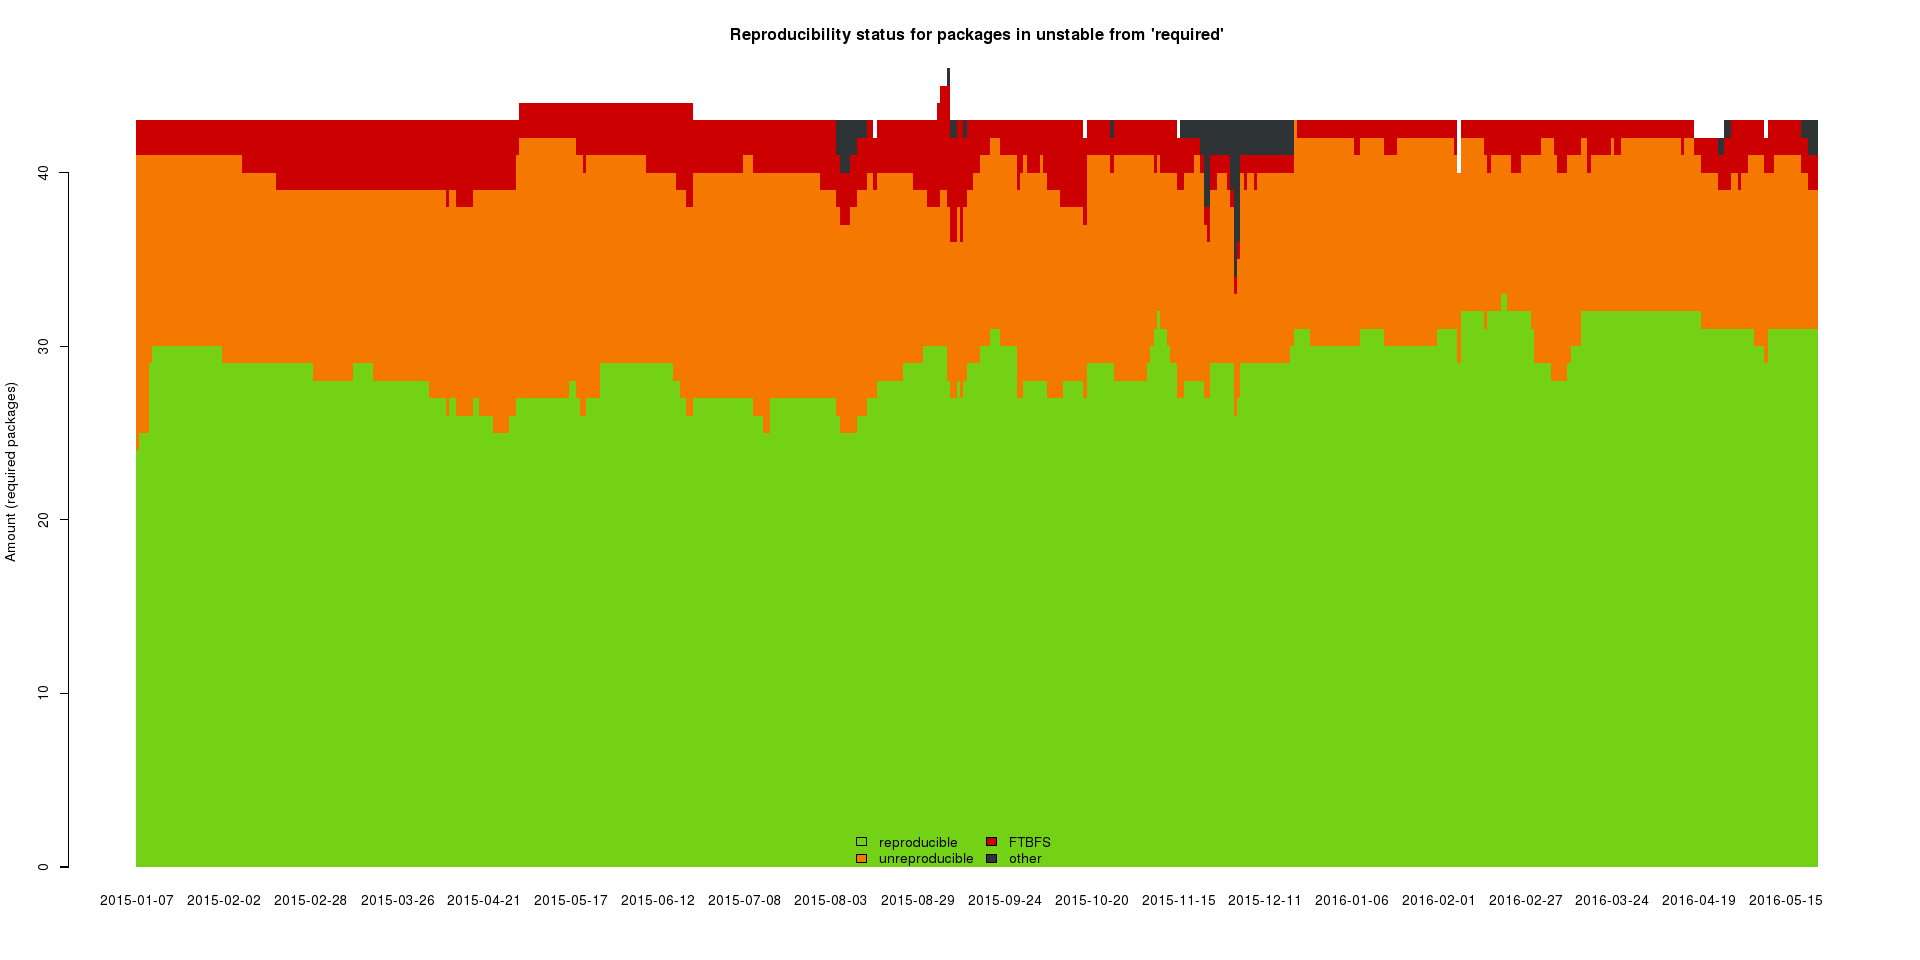
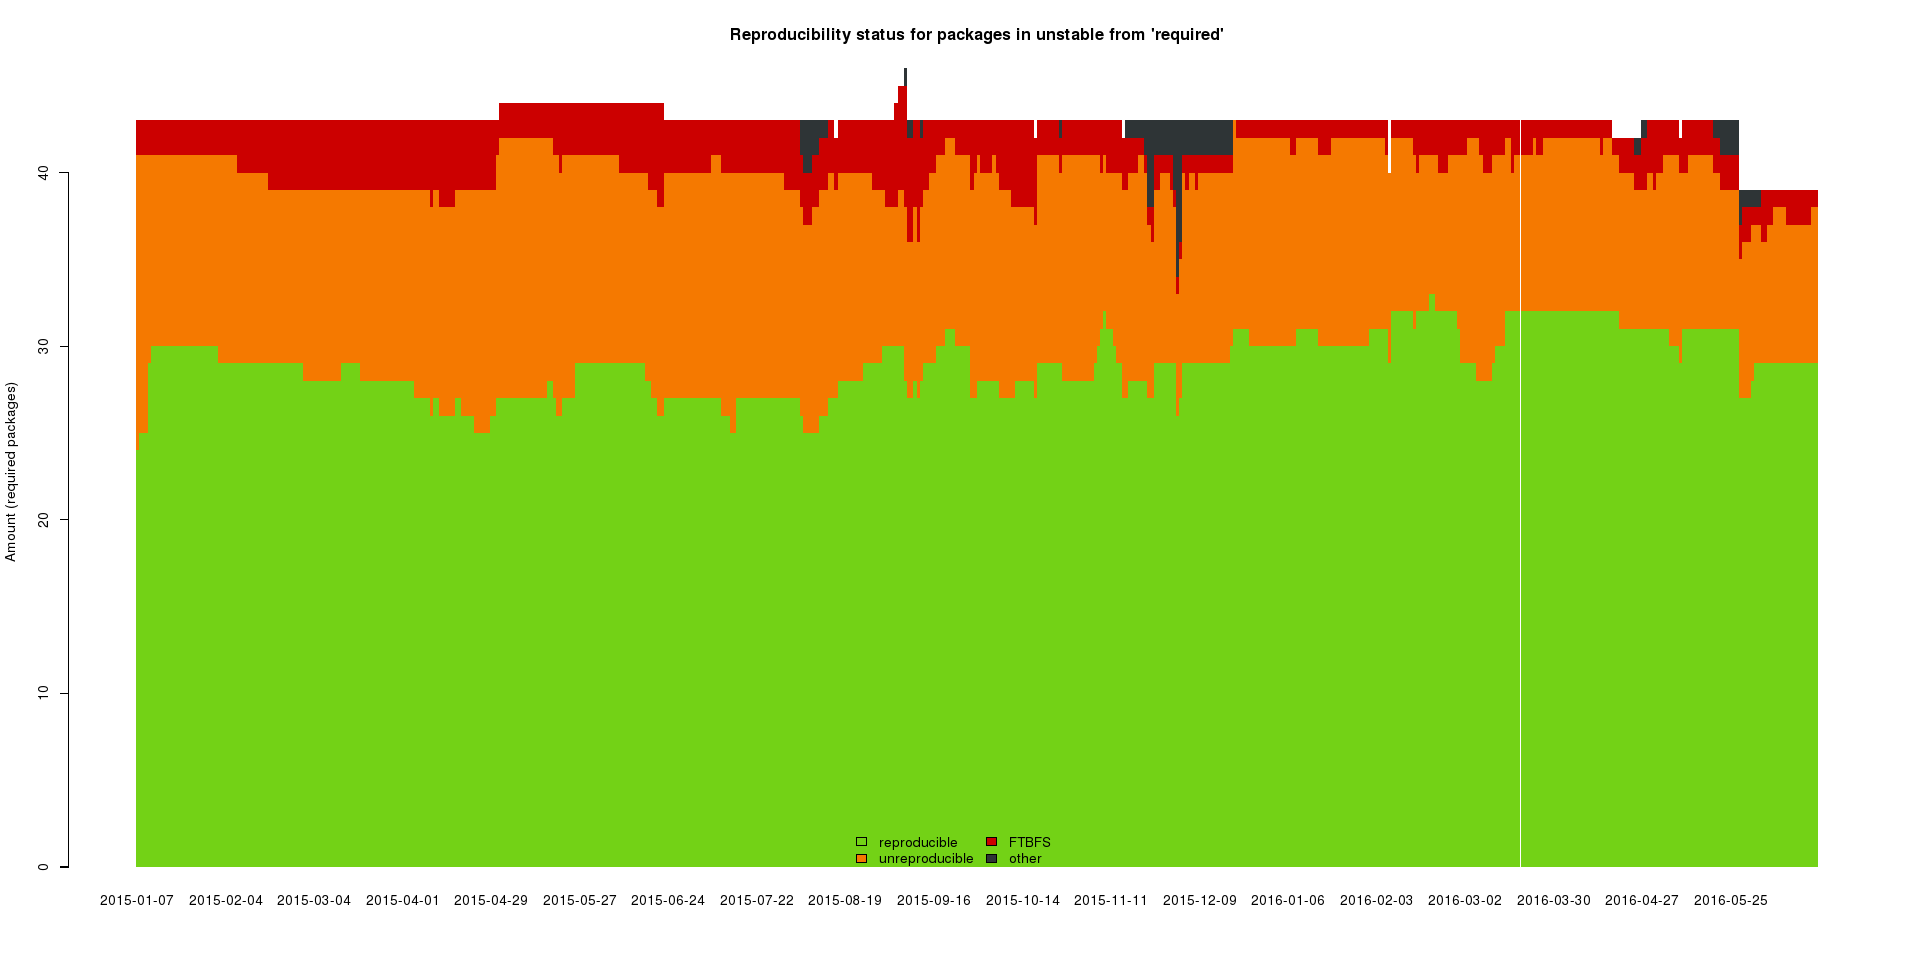
update stats

diff --git a/2016-06-23-openSUSE-Conference-2016/2016-06-23-openSUSE-Conference-2016.tex b/2016-06-23-openSUSE-Conference-2016/2016-06-23-openSUSE-Conference-2016.tex
@@ -390,6 +390,7 @@ and some hints where this might be going…}
  \frametitle{a very brief history}
 
  \begin{itemize}
+  \item ...
   \item Bitcoin (2012)
   \item TorBrowser and Tor (2012)
   \item<2-4> Debian (2013)
@@ -636,8 +637,8 @@ hour, minute & \multicolumn{2}{l}{hour is usually the same… usually, the minut
  \begin{center}
     \includegraphics[height=0.7\paperheight]{images/stats_pkg_state.png}
 
-  \footnotesize{21,365 (88.5\%) out of 24,135 source packages are reproducible \\
-    in our test framework (and 90.1\% in \texttt{testing/amd64})}
+  \footnotesize{21,666 (89.0\%) out of 24,323 source packages are reproducible \\
+    in our test framework (and 90.2\% in \texttt{testing/amd64})}
   \vfill
  \end{center}
 \end{frame}
@@ -646,11 +647,11 @@ hour, minute & \multicolumn{2}{l}{hour is usually the same… usually, the minut
  \frametitle{Notes and issues on tests.reproducible-builds.org}
 
  \begin{itemize}
-  \item { 194 categorised distinct issues }
-  \item { 3,085 notes }
-  \item<2-4> { 1879 unreproducible packages in \texttt{sid/amd64}, but only
-  227 without a  note }
-  \item<2-4> { 516 packages failing to build, but only 92 without a note }
+  \item { 206 categorised distinct issues }
+  \item { 3,261 notes }
+  \item<2-4> { 1844 unreproducible packages in \texttt{sid/amd64}, but only
+  211 without a  note }
+  \item<2-4> { 655 packages failing to build, but only 149 without a note }
   \item<3-4> { maintained in \texttt{notes.git} }
   \item<4> { currently Debian only, but cross distro notes are planned}
  \end{itemize}
@@ -670,8 +671,8 @@ hour, minute & \multicolumn{2}{l}{hour is usually the same… usually, the minut
   \begin{center}
     \includegraphics[height=0.7\paperheight]{images/stats_meta_pkg_state_required.png}
 
- \footnotesize{35 different "package sets", eg. \texttt{required} is only
-  73.1\% reproducible}
+ \footnotesize{42 different "package sets", eg. \texttt{required} is only
+  74.3\% reproducible}
   \vfill
  \end{center}
 \end{frame}
@@ -681,8 +682,8 @@ hour, minute & \multicolumn{2}{l}{hour is usually the same… usually, the minut
   \begin{center}
     \includegraphics[height=0.7\paperheight]{images/stats_meta_pkg_state_key_packages.png}
 
- \footnotesize{Debian's \texttt{key\_packages} are 84.5\% reproducible,
-  but 435 packages (12.8\%) \\ 
+ \footnotesize{Debian's \texttt{key\_packages} are 86.9\% reproducible,
+  but 437 packages (10\%) \\ 
   will still need to be fixed}
   \vfill
  \end{center}
@@ -710,8 +711,8 @@ hour, minute & \multicolumn{2}{l}{hour is usually the same… usually, the minut
   \item \texttt{diffoscope} (formerly \texttt{debbindiff})
   \item \texttt{SOURCE\_DATE\_EPOCH}
   \item \texttt{disorderfs}
-  \item 1600+ patches: \texttt{dpkg}, \texttt{debhelper}, \texttt{sbuild}, …
-  \item 4 packages modified to achive those 88\% (90.1\%)
+  \item 1700+ patches: \texttt{dpkg}, \texttt{debhelper}, \texttt{sbuild}, …
+  \item 2 packages modified to achieve those 89\% (90.2\%)
   \item …
  \end{itemize}
 \end{frame}
@@ -745,6 +746,32 @@ hour, minute & \multicolumn{2}{l}{hour is usually the same… usually, the minut
  \end{itemize}
 \end{frame}
 
+\begin{frame}[fragile]
+ \frametitle{Example \texttt{.buildinfo} file}
+
+{\small
+\begin{verbatim}
+Format: 1.9
+Build-Architecture: amd64
+Source: txtorcon
+Binary: python-txtorcon
+Architecture: all
+Version: 0.11.0-1
+Build-Path: /build/txtorcon-0.11.0-1
+Checksums-Sha256:
+ a26549d9…7b 125910 python-txtorcon_0.11.0-1_all.deb
+ 28f6bcbe…69 2039 txtorcon_0.11.0-1.dsc
+Build-Environment:
+ base-files (= 8),
+ base-passwd (= 3.5.37),
+ bash (= 4.3-11+b1),
+ …
+\end{verbatim}
+}
+\end{frame}
+
+
+
 \begin{frame}
  \frametitle{\texttt{.buildinfo} files elsewhere}
 
@@ -753,10 +780,10 @@ hour, minute & \multicolumn{2}{l}{hour is usually the same… usually, the minut
   \item it's clear we need something like them
   \item it's clear what needs to be specified
   \item it "just" needs to be done…
-  \item<2> and it \textbf{needs} to be done - we need "API"s to define inputs and
+  \item<2> and it \textbf{needs} to be done: we need "API"s to define inputs and
   outputs, these "API"s will be different in their implementation but the
   basic principiples will be the same. Without \texttt{.buildinfo} files
-  reproducible rebuild are not doable in practice… 
+  reproducible rebuilds are not doable in practice…!
  \end{itemize}
 \end{frame}
 
@@ -773,7 +800,7 @@ hour, minute & \multicolumn{2}{l}{hour is usually the same… usually, the minut
   \item<3-4> another summit in second half 2016, somewhere in Europe
    \end{itemize}
   \item<4> 2 GSoC students in 2015, totally new contributors, totally rocking
-  \item<4> 4 GSoC and Outreachy students in 2016
+  \item<4> 4 GSoC and Outreachy students in 2016, also rocking already!
  \end{itemize}
 \end{frame}
 
@@ -815,7 +842,7 @@ hour, minute & \multicolumn{2}{l}{hour is usually the same… usually, the minut
  \frametitle{Status coreboot}
  \begin{itemize}
   \item \texttt{https://tests.r-b.org/coreboot}
-  \item 99.2\% reproducible with \texttt{seabios} payload
+  \item 100\% reproducible with \texttt{seabios} payload
   \item tests maintained by Alexander 'lynxis' Couzens
   \item unclear what the next steps are… they don't release binaries…
   \item needs involvement from coreboot developers
@@ -830,11 +857,11 @@ hour, minute & \multicolumn{2}{l}{hour is usually the same… usually, the minut
 \begin{frame}
  \frametitle{Status OpenWrt}
  \begin{itemize}
-  \item \texttt{https://tests.r-b.org/coreboot}
+  \item \texttt{https://tests.r-b.org/openwrt}
   \item selected images are 100\% reproducible and selected packages 99.7\%
-  \item using 13 patches send upstream on January 25th
+  \item using 13 patches send upstream on January 25th 2016
   \item tests maintained by Alexander 'lynxis' Couzens and Bryan Newbold
-  \item recreating the build env: needs to checked in practice
+  \item recreating the build env: needs to be checked in practice
   \item user verification tools: not yet
  \end{itemize}
  \begin{tikzpicture}[remember picture,overlay]
@@ -867,8 +894,10 @@ hour, minute & \multicolumn{2}{l}{hour is usually the same… usually, the minut
   \item \texttt{https://tests.r-b.org/freebsd}
   \item base system not yet reproducible, but almost there
   \item 63\% of 15k ports were reproducible in 2013 already, their wiki says
-  \item tests maintained by h01ger so far…
+  \item tests maintained by h01ger so far… but Ed Maste has recently started
+  work
   \item recreating the build env: ?
+  \item hopefully soon testing ports (=packages) too 
  \end{itemize}
  \begin{tikzpicture}[remember picture,overlay]
   \node[shift={(-0.11\paperwidth, 0.2\paperheight)},at=(current page.south east)] {
@@ -922,7 +951,7 @@ hour, minute & \multicolumn{2}{l}{hour is usually the same… usually, the minut
 \end{frame}
 
 \begin{frame}
- \frametitle{Unmentioned, with known activities}
+ \frametitle{More projects with known activities}
  \begin{itemize}
 \item Bitcoin, Tor,
 \item Signal
@@ -950,7 +979,7 @@ hour, minute & \multicolumn{2}{l}{hour is usually the same… usually, the minut
 \end{frame}
 
 \begin{frame}
- \frametitle{Unmentioned, unknown activities?}
+ \frametitle{Unknown activities?}
  \begin{itemize}
 \item  OpenBSD
 \item  Gentoo (stage1)
